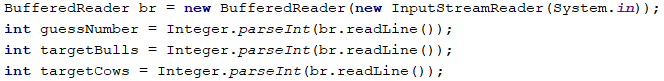
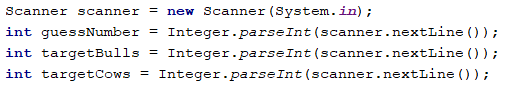
Replaced BufferedReader with Scanner. Fixed a few text bugs.

diff --git a/chapter-09-problems-for-champions-part-2.md b/chapter-09-problems-for-champions-part-2.md
@@ -81,7 +81,7 @@
 
 ![](assets/chapter-9-2-images/01.Passion-days-02.png)
 
-Тук е мястото да отбележим, че извикването на **`Console.ReadLine()`** след края на цикъла се използва за **преминаване към първата команда** за обработване.
+Тук е мястото да отбележим, че извикването на **`scanner.nextLine()`** след края на цикъла се използва за **преминаване към първата команда** за обработване.
 
 ##### Алгоритъм за решаване
 
@@ -103,7 +103,7 @@
 
 Нека разгледаме проблемите от първото условие, които стоят пред нас. Единият е как можем да разберем дали даден **символ представлява главна буква**. Можем да използваме един от двата начина:
 * Имайки предвид, факта, че буквите в азбуката имат ред, можем да използваме следната проверка **`action >= 'A' && action <= 'Z'`**, за да проверим дали нашият символ се намира в интервала от големи букви.
-* Можем да използваме функцията **`char.IsUpper(..)`**.
+* Можем да използваме функцията **`Character.isUpperCase(..)`**.
 
 Другият проблем е как можем **да пропуснем даден символ**, ако той представлява операция, която изисква повече пари, отколкото Лина има? Това е възможно да бъде направено с използване на **`continue`** конструкцията.
 
